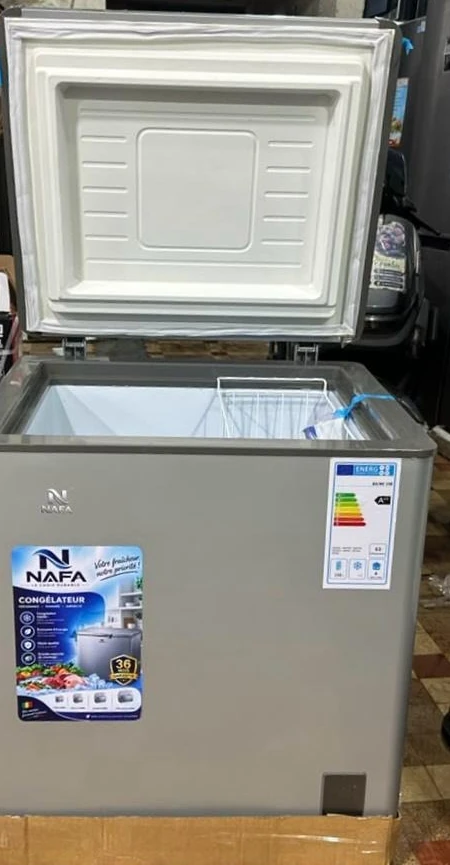
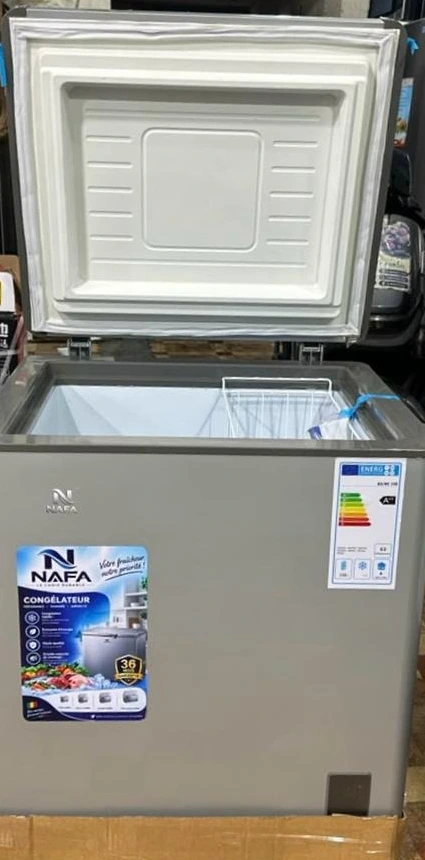
fix(media): enhance surgical crop on congelateurs and add link_production_images script

diff --git a/scripts/link_production_images.py b/scripts/link_production_images.py
@@ -1,0 +1,151 @@
+"""
+Liaison directe et universelle (Production & Local) des images WebP des congélateurs coffres.
+Ce script ne requiert AUCUN fichier temporaire ou chemin Windows:
+Il utilise directement les images .webp committées dans media/products/congelateurs_coffres/
+et les associe dans ProductImage de manière idempotente.
+"""
+import os
+import sys
+from pathlib import Path
+
+BASE_DIR = Path(__file__).resolve().parent.parent
+sys.path.insert(0, str(BASE_DIR))
+os.environ.setdefault('DJANGO_SETTINGS_MODULE', 'onizouka.settings')
+import django
+django.setup()
+
+from django.db import transaction
+from shop.models import Product, ProductImage
+
+MEDIA_ROOT = BASE_DIR / 'media'
+
+PRODUCT_IMAGES_MAPPING = {
+    # 1. Fizzen (7 modèles: ONZ-FZ-CH-*)
+    'ONZ-FZ-CH-110L': [
+        ('products/congelateurs_coffres/fizzen_coffre_110l_ferme.webp', True, 'Vue fermée'),
+        ('products/congelateurs_coffres/fizzen_coffre_110l_ouvert.webp', False, 'Vue ouverte avec vitres coulissantes'),
+    ],
+    'ONZ-FZ-CH-160L': [
+        ('products/congelateurs_coffres/fizzen_coffre_160l_ferme.webp', True, 'Vue fermée'),
+        ('products/congelateurs_coffres/fizzen_coffre_160l_ouvert.webp', False, 'Vue ouverte avec panier'),
+    ],
+    'ONZ-FZ-CH-210L': [
+        ('products/congelateurs_coffres/fizzen_coffre_210l_ferme.webp', True, 'Vue fermée'),
+        ('products/congelateurs_coffres/fizzen_coffre_210l_ouvert.webp', False, 'Vue intérieure'),
+    ],
+    'ONZ-FZ-CH-270L': [
+        ('products/congelateurs_coffres/fizzen_coffre_270l_ferme.webp', True, 'Vue fermée'),
+        ('products/congelateurs_coffres/fizzen_coffre_270l_ouvert.webp', False, 'Vue intérieure cuve'),
+    ],
+    'ONZ-FZ-CH-350L': [
+        ('products/congelateurs_coffres/fizzen_coffre_350l_ferme.webp', True, 'Vue fermée 2 battants'),
+        ('products/congelateurs_coffres/fizzen_coffre_350l_ouvert.webp', False, 'Vue intérieure spacieuse'),
+    ],
+    'ONZ-FZ-CH-430L': [
+        ('products/congelateurs_coffres/fizzen_coffre_430l_ferme.webp', True, 'Vue fermée 2 battants'),
+        ('products/congelateurs_coffres/fizzen_coffre_430l_ouvert.webp', False, 'Vue intérieure grande capacité'),
+    ],
+    'ONZ-FZ-CH-550L': [
+        ('products/congelateurs_coffres/fizzen_coffre_550l_ferme.webp', True, 'Vue fermée 2 battants PRO'),
+        ('products/congelateurs_coffres/fizzen_coffre_550l_ouvert.webp', False, 'Vue intérieure commerciale'),
+    ],
+    # 2. Roch (2 modèles)
+    'ONZ-ROCH-CH-316L': [
+        ('products/congelateurs_coffres/roch_coffre_316l_ferme.webp', True, 'Vue extérieure'),
+        ('products/congelateurs_coffres/roch_coffre_316l_ouvert.webp', False, 'Vue intérieure vitres coulissantes'),
+    ],
+    'ONZ-ROCH-CH-550L': [
+        ('products/congelateurs_coffres/roch_coffre_550l_ferme.webp', True, 'Vue extérieure 2 battants'),
+        ('products/congelateurs_coffres/roch_coffre_550l_ouvert.webp', False, 'Vue ouverte grand volume'),
+    ],
+    # 3. Pearl (1 modèle)
+    'ONZ-PEARL-CH-375L': [
+        ('products/congelateurs_coffres/pearl_coffre_375l_ferme.webp', True, 'Vue extérieure fermée'),
+        ('products/congelateurs_coffres/pearl_coffre_375l_ouvert.webp', False, 'Vue ouverte 2 battants'),
+        ('products/congelateurs_coffres/pearl_coffre_375l_interieur_badge.webp', False, 'Détail vitres et badge'),
+    ],
+    # 4. TMT (2 modèles)
+    'ONZ-TMT-CH-200L': [
+        ('products/congelateurs_coffres/tmt_coffre_200l_ferme.webp', True, 'Vue extérieure'),
+        ('products/congelateurs_coffres/tmt_coffre_200l_ouvert.webp', False, 'Vue intérieure vitres coulissantes'),
+    ],
+    'ONZ-TMT-CH-288L': [
+        ('products/congelateurs_coffres/tmt_coffre_288l_ferme.webp', True, 'Vue extérieure'),
+        ('products/congelateurs_coffres/tmt_coffre_288l_ouvert.webp', False, 'Vue intérieure vitres coulissantes'),
+    ],
+    # 5. Sharp (2 modèles)
+    'ONZ-SHP-CH-450L': [
+        ('products/congelateurs_coffres/sharp_coffre_450l_ref580.webp', True, 'Vue officielle Sharp Réf 580'),
+    ],
+    'ONZ-SHP-CH-520L': [
+        ('products/congelateurs_coffres/sharp_coffre_520l_ref660_ferme.webp', True, 'Vue extérieure 2 battants Réf 660'),
+        ('products/congelateurs_coffres/sharp_coffre_520l_ref660_ouvert.webp', False, 'Vue intérieure grand volume'),
+    ],
+    # 6. Telimani (2 modèles)
+    'ONZ-TEL-CH-212L': [
+        ('products/congelateurs_coffres/telimani_coffre_212l_ferme.webp', True, 'Vue extérieure'),
+        ('products/congelateurs_coffres/telimani_coffre_212l_ouvert.webp', False, 'Vue ouverte avec vitres'),
+    ],
+    'ONZ-TEL-CH-650L': [
+        ('products/congelateurs_coffres/telimani_coffre_650l_ferme.webp', True, 'Vue extérieure fermée 2 battants'),
+        ('products/congelateurs_coffres/telimani_coffre_650l_ouvert.webp', False, 'Vue ouverte professionnelle'),
+    ],
+    # 7. NAFA (3 modèles)
+    'ONZ-NAFA-CH-148L': [
+        ('products/congelateurs_coffres/nafa_coffre_148l_bd198.webp', True, 'Vue compacte NAFA 148L BD-198'),
+    ],
+    'ONZ-NAFA-CH-248L': [
+        ('products/congelateurs_coffres/nafa_coffre_248l_bd298.webp', True, 'Vue intermédiaire NAFA 248L BD-298'),
+    ],
+    'ONZ-NAFA-CH-348L': [
+        ('products/congelateurs_coffres/nafa_coffre_348l_bd398.webp', True, 'Vue grand modèle NAFA 348L BD-398'),
+    ],
+    # 8. LG (1 modèle)
+    'ONZ-LG-CH-345L': [
+        ('products/congelateurs_coffres/lg_coffre_345l_ferme.webp', True, 'Vue extérieure fermée officielle'),
+        ('products/congelateurs_coffres/lg_coffre_345l_ouvert.webp', False, 'Vue intérieure avec panier et compartiment'),
+        ('products/congelateurs_coffres/lg_coffre_345l_plaque_technique.webp', False, 'Plaque technique constructeur LG'),
+    ],
+}
+
+def link_images():
+    print("=== LIAISON DES IMAGES DES CONGÉLATEURS COFFRES ===")
+    total_linked = 0
+    total_products = 0
+
+    with transaction.atomic():
+        for sku, images in PRODUCT_IMAGES_MAPPING.items():
+            try:
+                product = Product.objects.get(sku=sku)
+            except Product.DoesNotExist:
+                print(f"[MANQUANT] Produit non trouvé pour le SKU : {sku}")
+                continue
+
+            total_products += 1
+            print(f"\nTraitement : {sku} ({product.name[:45]}...)")
+
+            # Réinitialiser les anciennes images si nécessaire ou mettre à jour
+            for rel_path, is_primary, alt_text in images:
+                full_path = MEDIA_ROOT / rel_path
+                if not full_path.exists():
+                    print(f"  [ATTENTION] Fichier introuvable sur le disque : {full_path}")
+                    continue
+
+                img_obj, created = ProductImage.objects.update_or_create(
+                    product=product,
+                    image=rel_path,
+                    defaults={
+                        'is_primary': is_primary,
+                        'alt_text': alt_text,
+                    }
+                )
+                status = "Créée" if created else "Mise à jour"
+                print(f"  -> Image {status} ({'Principale' if is_primary else 'Secondaire'}) : {rel_path}")
+                total_linked += 1
+
+    print(f"\n=== OPÉRATION TERMINÉE ===")
+    print(f"Produits traités : {total_products}")
+    print(f"Images associées : {total_linked}")
+
+if __name__ == '__main__':
+    link_images()
